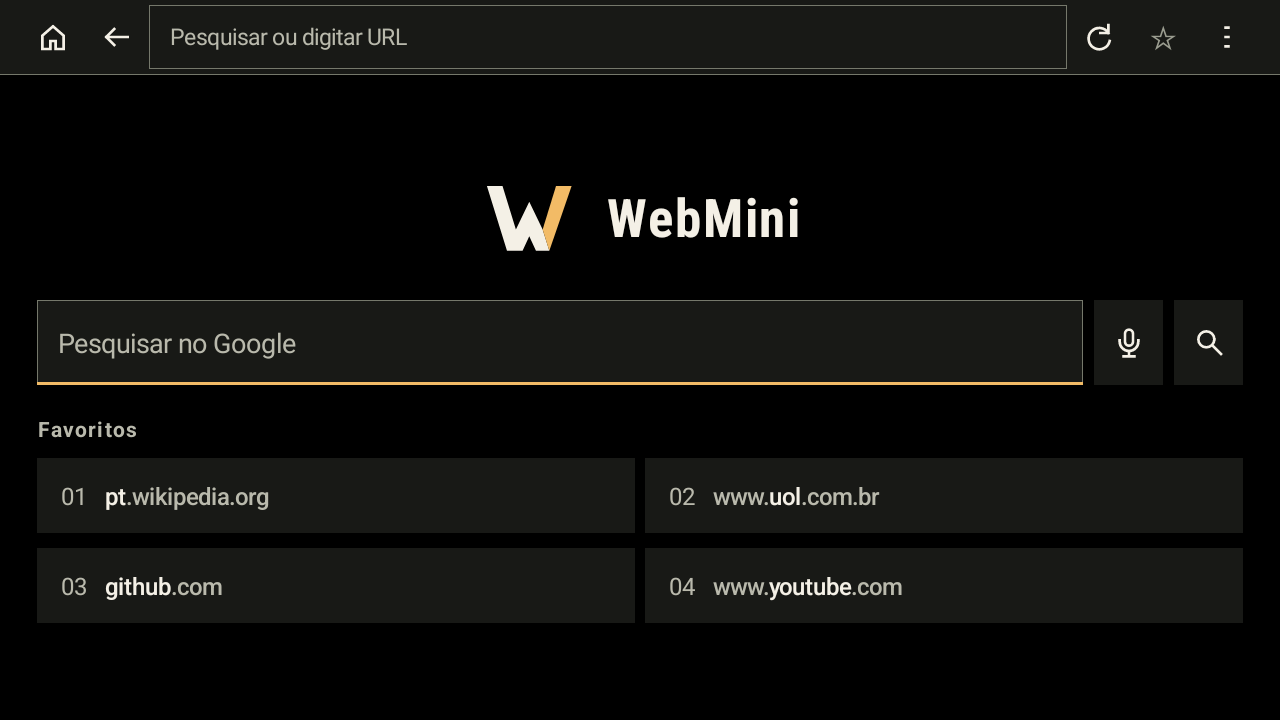
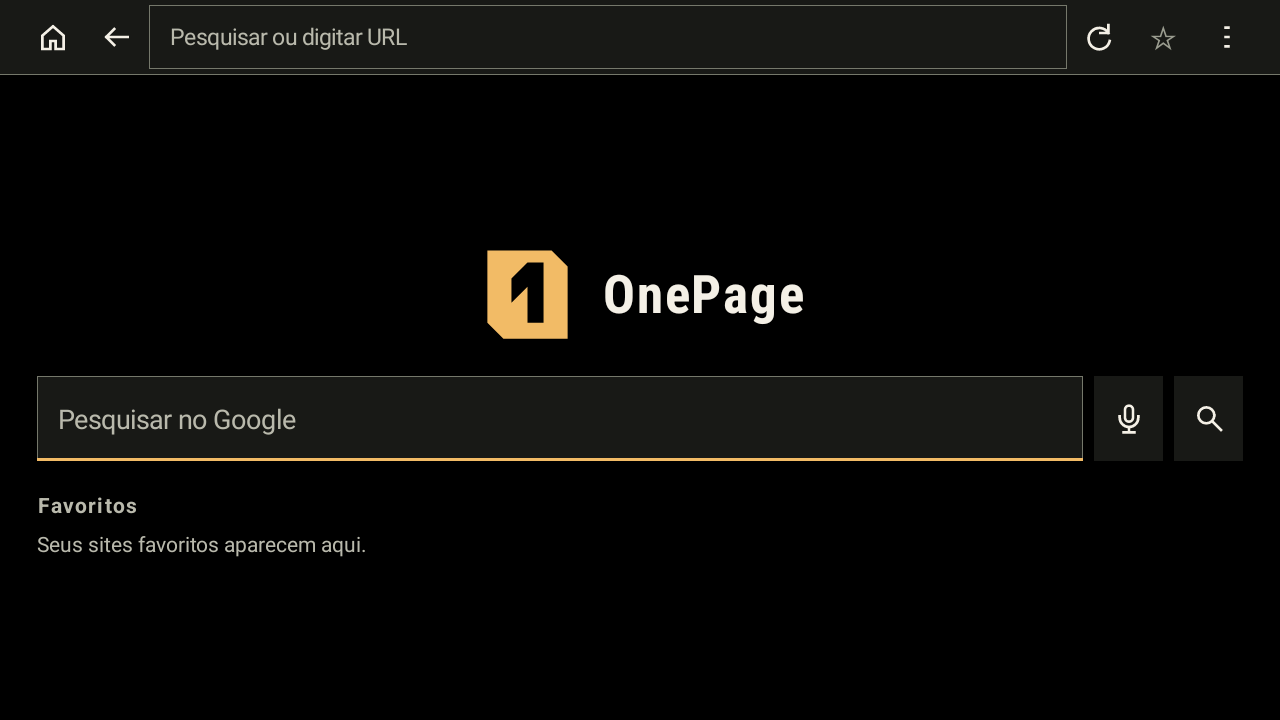
docs(release): record 0.4.0 validation

diff --git a/docs/validation-0.4.0.md b/docs/validation-0.4.0.md
@@ -1,0 +1,56 @@
+# 0.4.0 validation
+
+Validation date: 2026-11-11. Device: TiVo Stream 4K, Android TV 12,
+`armeabi-v7a`, Android System WebView 156.0.8078.50. The debug build used
+`io.github.lucaswotta.onepage.debug`; it was installed beside WebMini.
+
+## Automated checks
+
+```sh
+ANDROID_HOME="$HOME/Android/Sdk" ./gradlew --no-daemon clean \
+  :app:testDebugUnitTest :app:lintRelease :app:assembleDebug :app:assembleRelease
+```
+
+- 16 unit tests, zero failures or errors.
+- Release lint: zero errors, seven warnings: WebViewApiAvailability,
+  VectorRaster, AndroidGradlePluginVersion, PluralsCandidate,
+  SetJavaScriptEnabled, DataExtractionRules and UnusedResources.
+- Four release APKs: application ID, version, signature and exact native
+  library set checked. Each ABI exports all four OnePage JNI entry points.
+- An incremental build initially included the former `libwebmini_adblock.so`.
+  A clean build removed it. No source change was needed for this build artifact.
+- Tests, release lint and debug assembly also passed after the local folder
+  was renamed to `onepage`.
+
+## Device checks
+
+A loopback HTTP fixture was served through `adb reverse`. WebView state was
+read through CDP; native dialogs were checked with screenshots.
+
+| Check | Result |
+| --- | --- |
+| Page Up/Down, Channel Down, page start/end | Passed; scroll positions checked in the actual WebView |
+| Find in page | Three matches; advancing changed the counter from 1/3 to 2/3 |
+| Favorite titles, reorder and removal | Saved the document title; Move later changed persisted URL order; both test favorites were removed through the menu |
+| Popup from a button | Direct and delayed destinations prompted for the actual host; neither destination was downloaded before consent |
+| Scripted ad redirect | A redirect to an ad-list host was blocked and the existing page stayed open |
+| Media controls | Audio pause/play and forward/backward seeks of 10 seconds passed |
+| HTTP 404 and 500 | The server document remained visible |
+| Background and resume | The same document resumed and its JavaScript timer advanced |
+| Renderer crash | The app process survived and offered reload, edit address and home |
+| Engine cache | List files and a persisted `engine.dat` were created |
+
+The initial Page Down failure was a test setup error: the HTTP consent dialog
+or address editor still held focus. Closing the dialog and returning focus to
+the page made the native key tests pass.
+
+## Limits
+
+The API 23/28/36 device matrix, 512 MB reference emulator, protected video
+providers, cold-start fallback under throttled networking and conditional
+list update responses were not exercised in this run. Issue #24 tracks the
+WebView/device matrix; the roadmap retains performance and compatibility work.
+
+OS process-death restoration was not confirmed: `am kill` left the process
+running on the TiVo and `run-as` could not signal it. A debugger-driven exit
+reopened the home screen and was not accepted as proof of OS state restoration.

diff --git a/docs/testing.md b/docs/testing.md
@@ -70,9 +70,11 @@ Run on a TV device, with the debug or release build.
 
 | Device | System | Architecture | WebView | Checklist run |
 | --- | --- | --- | --- | --- |
-| TiVo Stream 4K | Android TV 12 | `armeabi-v7a` | 155 | Partial: home, favorites, menu, search engine, regional list, D-pad focus |
+| TiVo Stream 4K | Android TV 12 | `armeabi-v7a` | 156 | 0.4.0 debug: page jumps, find, media keys, favorite titles and reorder, popup confirmation, HTTP 404/500, background/resume and renderer recovery |
 
 Android 6.0 (API 23) is the minimum supported version and has not been run on a device. Device reports go to the [device report form](https://github.com/lucaswotta/onepage/issues/new?template=device-report.yml).
+
+See [0.4.0 validation](validation-0.4.0.md) for the dated release checks and limits.
 
 ## Memory and storage
 

diff --git a/README.pt-BR.md b/README.pt-BR.md
@@ -100,7 +100,7 @@ O ponteiro some depois de 2,5 s sem uso e volta na próxima tecla. Enquanto um c
 
 | Início e favoritos | Opções |
 | --- | --- |
-| ![Tela inicial com pesquisa e quatro favoritos](docs/images/home.png) | ![Menu de opções com avançar, bloqueio de pop-ups, bloqueio de anúncios e sobre](docs/images/menu.png) |
+| ![Tela inicial com pesquisa e seção de favoritos](docs/images/home.png) | ![Menu de opções com avançar, bloqueio de pop-ups, bloqueio de anúncios e sobre](docs/images/menu.png) |
 | Confirmação de pop-up | Confirmação de download |
 | ![Diálogo pedindo para abrir www.wikipedia.org na aba atual](docs/images/popup.png) | ![Diálogo com nome do arquivo, host e tipo antes do download](docs/images/download.png) |
 | Aviso de HTTP | Opções do bloqueio de anúncios |

diff --git a/README.md b/README.md
@@ -100,7 +100,7 @@ The pointer hides after 2.5 s without input and returns on the next key press. W
 
 | Home and favorites | Options |
 | --- | --- |
-| ![Home screen with search and four favorites](docs/images/home.png) | ![Options menu with forward, pop-up blocking, ad blocking and about](docs/images/menu.png) |
+| ![Home screen with search and the favorites section](docs/images/home.png) | ![Options menu with forward, pop-up blocking, ad blocking and about](docs/images/menu.png) |
 | Pop-up confirmation | Download confirmation |
 | ![Dialog asking to open www.wikipedia.org in the current tab](docs/images/popup.png) | ![Dialog showing file name, host and type before a download](docs/images/download.png) |
 | HTTP warning | Ad blocking options |

diff --git a/CHANGELOG.md b/CHANGELOG.md
@@ -1,6 +1,6 @@
 # Changelog
 
-## 0.4.0 (unreleased)
+## 0.4.0 (2026-11-11)
 
 WebMini becomes OnePage. The application ID changed, so OnePage installs next to WebMini instead of updating it: add the favorites again by hand in OnePage, then uninstall WebMini.
 
